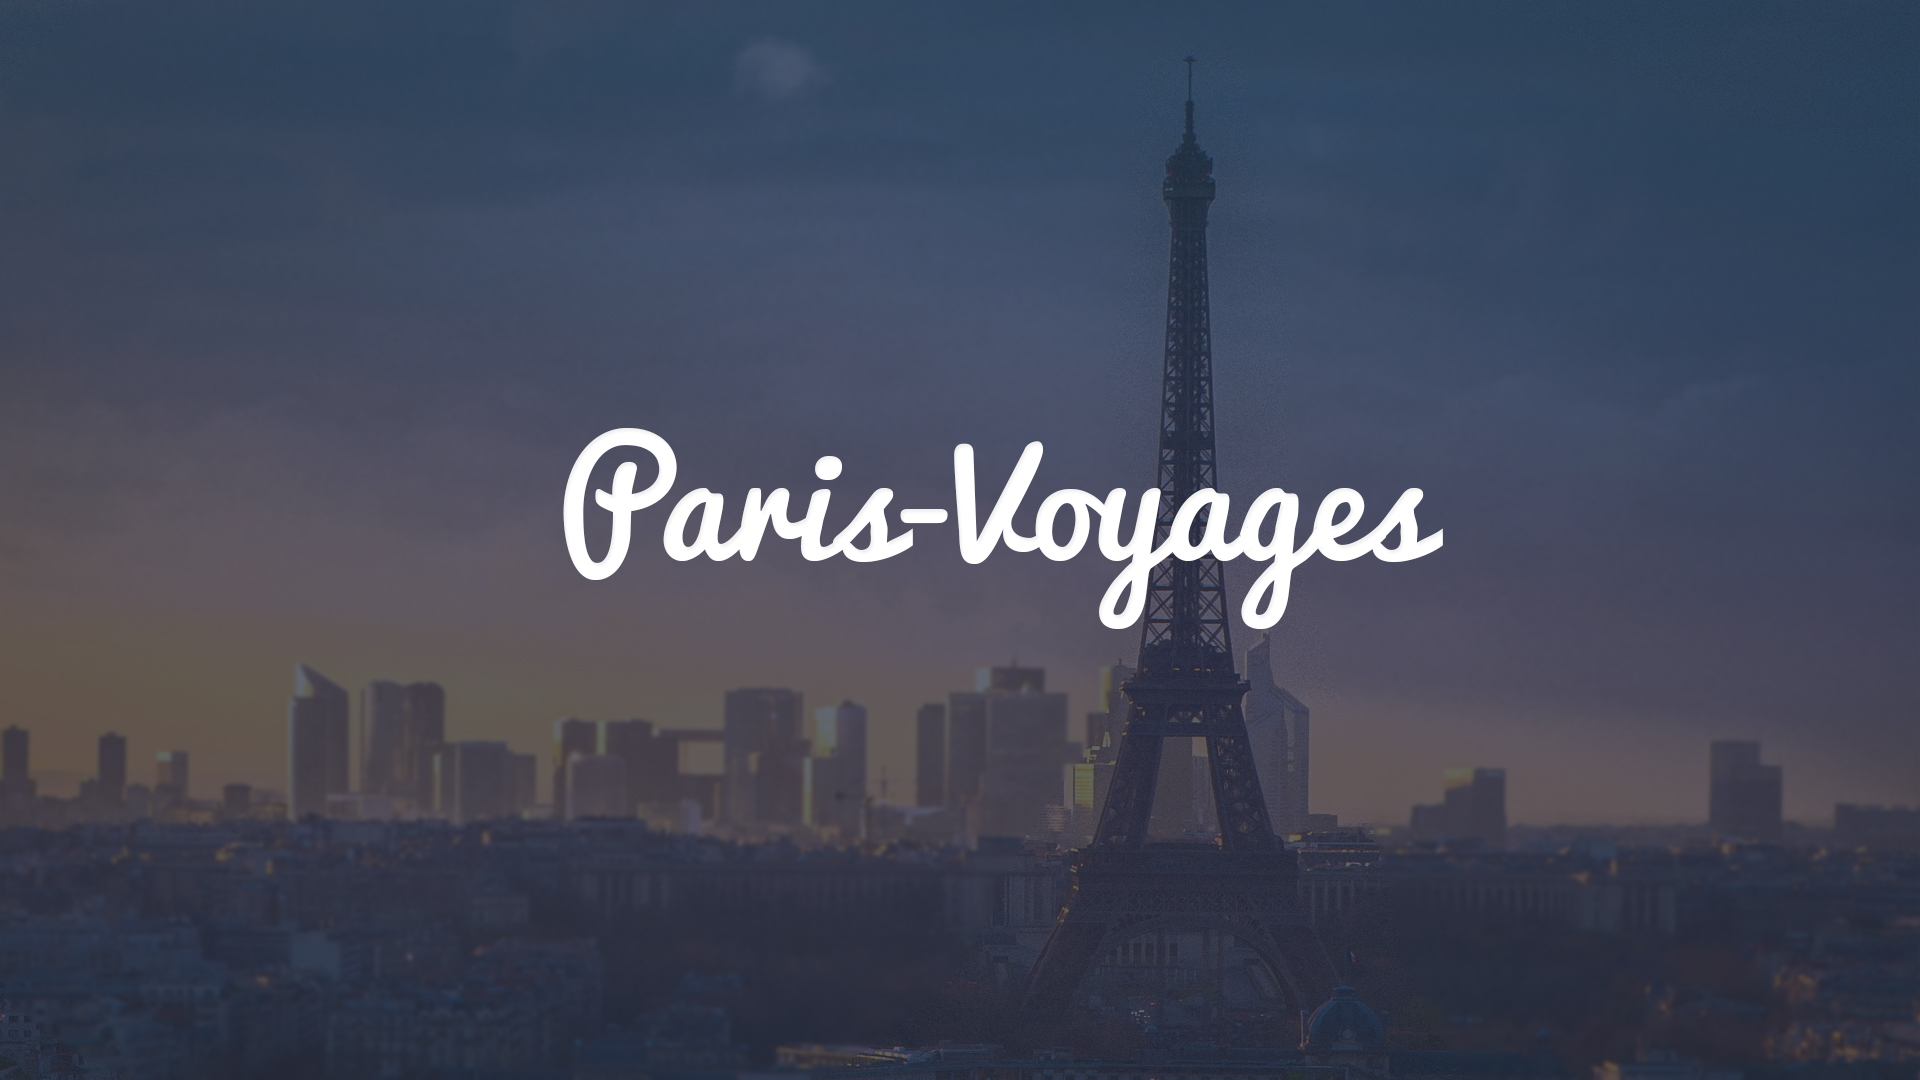
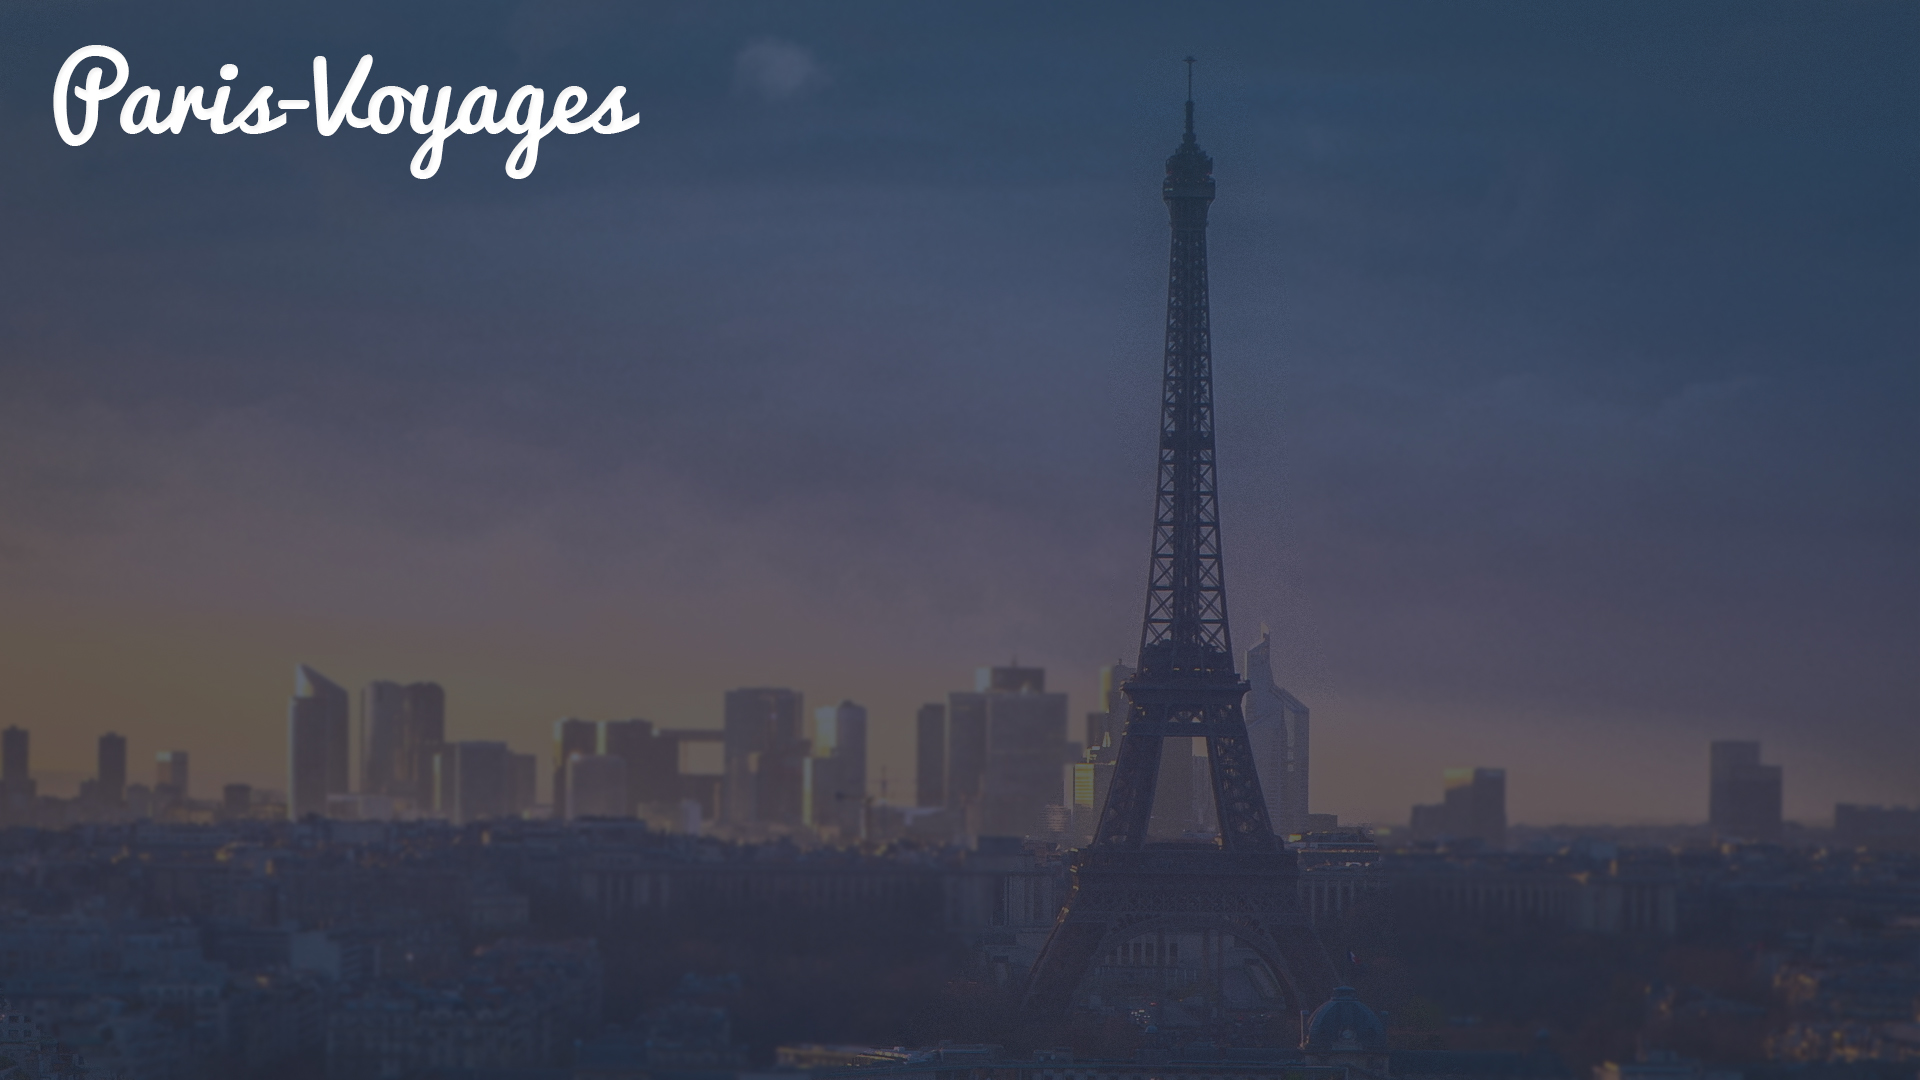
trying background image

Changed region(s): [[0.2812, 0.3972, 0.75, 0.5806], [0.0312, 0.0306, 0.3438, 0.1833]]

diff --git a/public/css/p4.css b/public/css/p4.css
@@ -1,8 +1,8 @@
 
-body{
+#image{
 	
 	background-image: url("images/paris.jpeg");
-	background-size: 1300px 750px;
+	background-size: 50px 50px;
 	background-repeat: no-repeat;
 	
 	

diff --git a/app/views/_master.blade.php b/app/views/_master.blade.php
@@ -2,8 +2,9 @@
 <html>
   <body>
   <head>
+  @yield('title')
 	<meta charset="utf-8"/>
-  	<title>@yield('title') Paris Itineraries</title>
+  	<title> Paris Itineraries</title>
 
     <!-- CSS -->
     	<link rel="stylesheet" href="css/p4.css" type ='text/css'>
@@ -12,7 +13,7 @@
     
        
                  
-	  
+	  <!--
 	@yield('contenthead')
 
 	@if(Auth::check())
@@ -38,7 +39,7 @@
     @yield('main')
 	</div>
     
-    @yield('footer')
+    @yield('footer') -->
 
 </body>
 </html>

diff --git a/app/routes.php b/app/routes.php
@@ -13,13 +13,14 @@
 
 // app/routes.php`:
 
-Route::get('/', function()
+Route::get('/home', function()
     
     {
     
 	return View::make('index');
 	
     });
+    
 
 Route::get('/signup',
     array(

diff --git a/app/views/index.blade.php b/app/views/index.blade.php
@@ -2,13 +2,11 @@
 
   @section('title')
     
+    
      
-     
-  
- 
-       <header>
        <img id="image" src="images/paris.jpeg" alt="Paris"/>
-       </header>
+       
+       
   
   @stop
 
